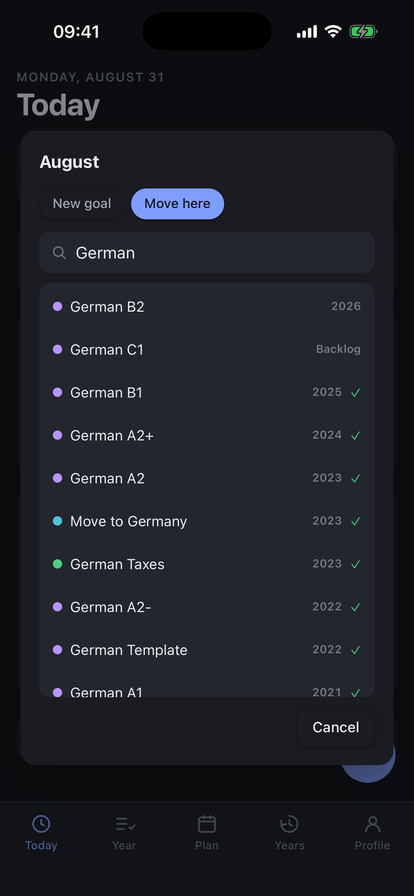
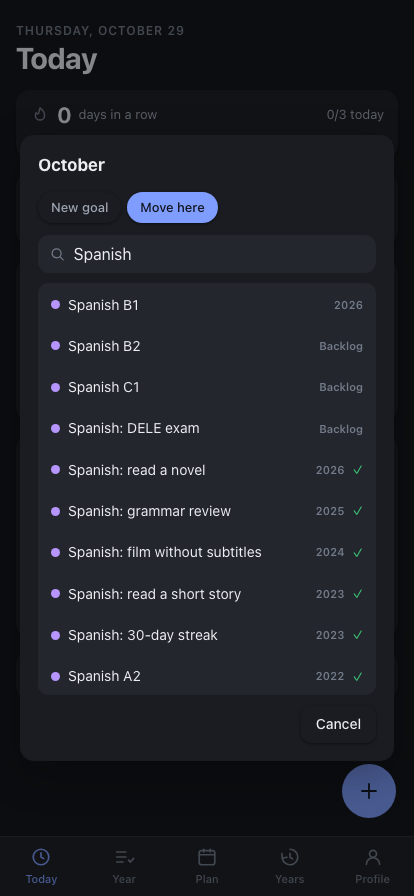
GoalsTable: screenshots of the demo seed, with alt text to match
The old images showed the owner's real goals, which the page now says are
invented. New set from goals-table's scripts/site-screenshots.mjs.

diff --git a/products/goals-table/index.html b/products/goals-table/index.html
@@ -66,8 +66,8 @@
         </div>
 
         <div class="hero-visual phone">
-          <img class="shot-light" src="assets/year-light.png" width="414" height="896" alt="The Year screen for 2026: a ring reading 61 per cent with 45 of 74 underneath, then a bar per category — Tech 23 of 43, Languages 1 of 3, Money 0 of 1, Health 1 of 7, Life 2 of 2, Projects 18 of 18 — above a list of goals with checkboxes." />
-          <img class="shot-dark" src="assets/year-dark.png" width="414" height="896" alt="The Year screen for 2026: a ring reading 61 per cent with 45 of 74 underneath, then a bar per category — Tech 23 of 43, Languages 1 of 3, Money 0 of 1, Health 1 of 7, Life 2 of 2, Projects 18 of 18 — above a list of goals with checkboxes. Shown in the app's dark theme." />
+          <img class="shot-light" src="assets/year-light.png" width="414" height="896" alt="The Year screen for 2026: a ring reading 61 per cent with 45 of 74 underneath, then a bar per category — Tech 24 of 40, Languages 2 of 4, Money 1 of 3, Health 4 of 7, Life 3 of 4, Projects 11 of 16 — above the list of Tech goals with checkboxes, starting with Go basics, Rust: the book, Kubernetes basics and Terraform." />
+          <img class="shot-dark" src="assets/year-dark.png" width="414" height="896" alt="The Year screen for 2026: a ring reading 61 per cent with 45 of 74 underneath, then a bar per category — Tech 24 of 40, Languages 2 of 4, Money 1 of 3, Health 4 of 7, Life 3 of 4, Projects 11 of 16 — above the list of Tech goals with checkboxes, starting with Go basics, Rust: the book, Kubernetes basics and Terraform. Shown in the app's dark theme." />
         </div>
       </div>
     </div>
@@ -79,23 +79,23 @@
       <h2 id="look" class="section-title">What it looks like</h2>
       <div class="shots-row">
         <figure>
-          <a class="shot shot-light" href="assets/today-light.png" target="_blank" rel="noopener" title="Open full size"><img src="assets/today-light.png" width="414" height="896" alt="The Today screen: a streak counter reading 0 days in a row with 0 of 3 done today, three one-hour blocks named Prof, Langs and Others, the August focus with its language and money targets, and the goals still open from this month." loading="lazy" decoding="async" /></a>
-          <a class="shot shot-dark" href="assets/today-dark.png" target="_blank" rel="noopener" title="Open full size"><img src="assets/today-dark.png" width="414" height="896" alt="The Today screen: a streak counter reading 0 days in a row with 0 of 3 done today, three one-hour blocks named Prof, Langs and Others, the August focus with its language and money targets, and the goals still open from this month. Shown in the app's dark theme." loading="lazy" decoding="async" /></a>
+          <a class="shot shot-light" href="assets/today-light.png" target="_blank" rel="noopener" title="Open full size"><img src="assets/today-light.png" width="414" height="896" alt="The Today screen for Thursday, October 29: a streak counter reading 0 days in a row with 0 of 3 done today, three one-hour blocks named Skills, Language and Projects, the October focus — Kubernetes basics, Terraform and 10 pull ups in a row, with Spanish B1, Japanese N5 and a 500 dollar target — and the goals still open from this month." loading="lazy" decoding="async" /></a>
+          <a class="shot shot-dark" href="assets/today-dark.png" target="_blank" rel="noopener" title="Open full size"><img src="assets/today-dark.png" width="414" height="896" alt="The Today screen for Thursday, October 29: a streak counter reading 0 days in a row with 0 of 3 done today, three one-hour blocks named Skills, Language and Projects, the October focus — Kubernetes basics, Terraform and 10 pull ups in a row, with Spanish B1, Japanese N5 and a 500 dollar target — and the goals still open from this month. Shown in the app's dark theme." loading="lazy" decoding="async" /></a>
           <figcaption>Today — the three hours, this month's focus, and what is still open</figcaption>
         </figure>
         <figure>
-          <a class="shot shot-light" href="assets/plan-light.png" target="_blank" rel="noopener" title="Open full size"><img src="assets/plan-light.png" width="414" height="896" alt="The Plan screen for 2026, showing 21,000 dollars planned for the year and a card per month — January with Data Scientist Course, Python and DB Pro, plus German B1, Italian B1 and a 1000 dollar target." loading="lazy" decoding="async" /></a>
-          <a class="shot shot-dark" href="assets/plan-dark.png" target="_blank" rel="noopener" title="Open full size"><img src="assets/plan-dark.png" width="414" height="896" alt="The Plan screen for 2026, showing 21,000 dollars planned for the year and a card per month — January with Data Scientist Course, Python and DB Pro, plus German B1, Italian B1 and a 1000 dollar target. Shown in the app's dark theme." loading="lazy" decoding="async" /></a>
+          <a class="shot shot-light" href="assets/plan-light.png" target="_blank" rel="noopener" title="Open full size"><img src="assets/plan-light.png" width="414" height="896" alt="The Plan screen for 2026, showing 4,000 dollars planned for the year and a card per month — January with TypeScript strict mode, Vitest and Healthy sleep: 7 hours, plus Spanish B1, Japanese: hiragana and katakana and a 300 dollar target." loading="lazy" decoding="async" /></a>
+          <a class="shot shot-dark" href="assets/plan-dark.png" target="_blank" rel="noopener" title="Open full size"><img src="assets/plan-dark.png" width="414" height="896" alt="The Plan screen for 2026, showing 4,000 dollars planned for the year and a card per month — January with TypeScript strict mode, Vitest and Healthy sleep: 7 hours, plus Spanish B1, Japanese: hiragana and katakana and a 300 dollar target. Shown in the app's dark theme." loading="lazy" decoding="async" /></a>
           <figcaption>Plan — twelve months, each with its own focus, language level and target</figcaption>
         </figure>
         <figure>
-          <a class="shot shot-light" href="assets/years-light.png" target="_blank" rel="noopener" title="Open full size"><img src="assets/years-light.png" width="414" height="896" alt="The Years archive: 243 done across 7 years, then a card per year — 2026 at 61 per cent, and 2025 back to 2020 each at 100 per cent — with the three biggest categories listed under each." loading="lazy" decoding="async" /></a>
-          <a class="shot shot-dark" href="assets/years-dark.png" target="_blank" rel="noopener" title="Open full size"><img src="assets/years-dark.png" width="414" height="896" alt="The Years archive: 243 done across 7 years, then a card per year — 2026 at 61 per cent, and 2025 back to 2020 each at 100 per cent — with the three biggest categories listed under each. Shown in the app's dark theme." loading="lazy" decoding="async" /></a>
+          <a class="shot shot-light" href="assets/years-light.png" target="_blank" rel="noopener" title="Open full size"><img src="assets/years-light.png" width="414" height="896" alt="The Years archive: 243 done across 7 years, then a card per year — 2026 at 61 per cent with 45 of 74 done, and 2025 back to 2021 each at 100 per cent — with the three biggest categories listed under each." loading="lazy" decoding="async" /></a>
+          <a class="shot shot-dark" href="assets/years-dark.png" target="_blank" rel="noopener" title="Open full size"><img src="assets/years-dark.png" width="414" height="896" alt="The Years archive: 243 done across 7 years, then a card per year — 2026 at 61 per cent with 45 of 74 done, and 2025 back to 2021 each at 100 per cent — with the three biggest categories listed under each. Shown in the app's dark theme." loading="lazy" decoding="async" /></a>
           <figcaption>Years — every year kept, and how much of each one you closed</figcaption>
         </figure>
         <figure>
-          <a class="shot shot-light" href="assets/move-light.png" target="_blank" rel="noopener" title="Open full size"><img src="assets/move-light.png" width="414" height="896" alt="The Move here tab of the add sheet, searching “German” across every year: German B2 in 2026, German C1 in the backlog, and German B1, A2+, A2, A2- and A1 in 2025 down to 2021, each ticked, alongside Move to Germany and German Taxes from 2023." loading="lazy" decoding="async" /></a>
-          <a class="shot shot-dark" href="assets/move-dark.png" target="_blank" rel="noopener" title="Open full size"><img src="assets/move-dark.png" width="414" height="896" alt="The Move here tab of the add sheet, searching “German” across every year: German B2 in 2026, German C1 in the backlog, and German B1, A2+, A2, A2- and A1 in 2025 down to 2021, each ticked, alongside Move to Germany and German Taxes from 2023. Shown in the app's dark theme." loading="lazy" decoding="async" /></a>
+          <a class="shot shot-light" href="assets/move-light.png" target="_blank" rel="noopener" title="Open full size"><img src="assets/move-light.png" width="414" height="896" alt="The Move here tab of the add sheet for October, searching “Spanish” across every year: Spanish B1 in 2026, Spanish B2, Spanish C1 and Spanish: DELE exam in the backlog, and earlier Spanish goals from 2026 back to 2022, each ticked." loading="lazy" decoding="async" /></a>
+          <a class="shot shot-dark" href="assets/move-dark.png" target="_blank" rel="noopener" title="Open full size"><img src="assets/move-dark.png" width="414" height="896" alt="The Move here tab of the add sheet for October, searching “Spanish” across every year: Spanish B1 in 2026, Spanish B2, Spanish C1 and Spanish: DELE exam in the backlog, and earlier Spanish goals from 2026 back to 2022, each ticked. Shown in the app's dark theme." loading="lazy" decoding="async" /></a>
           <figcaption>Move here — pull a goal out of an old year or the backlog into this month</figcaption>
         </figure>
       </div>
